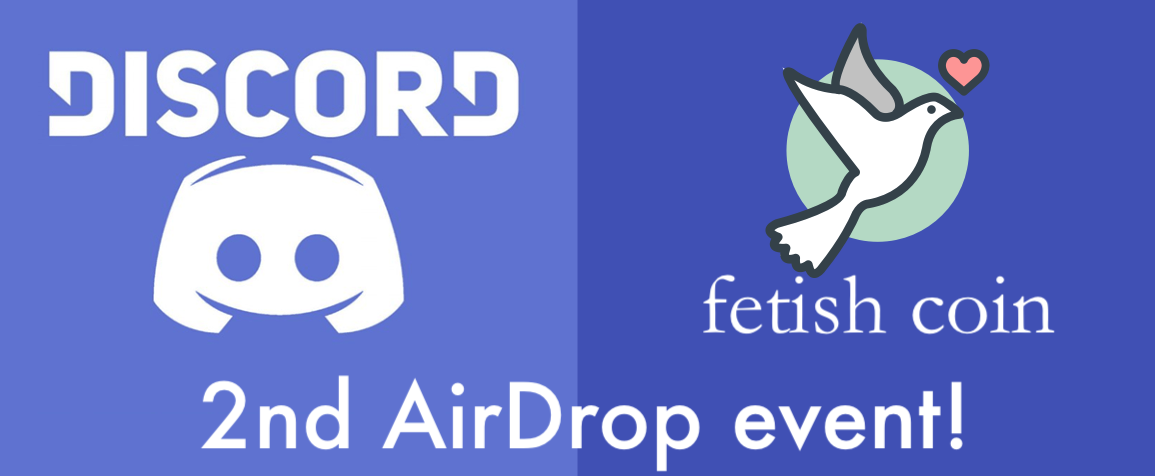
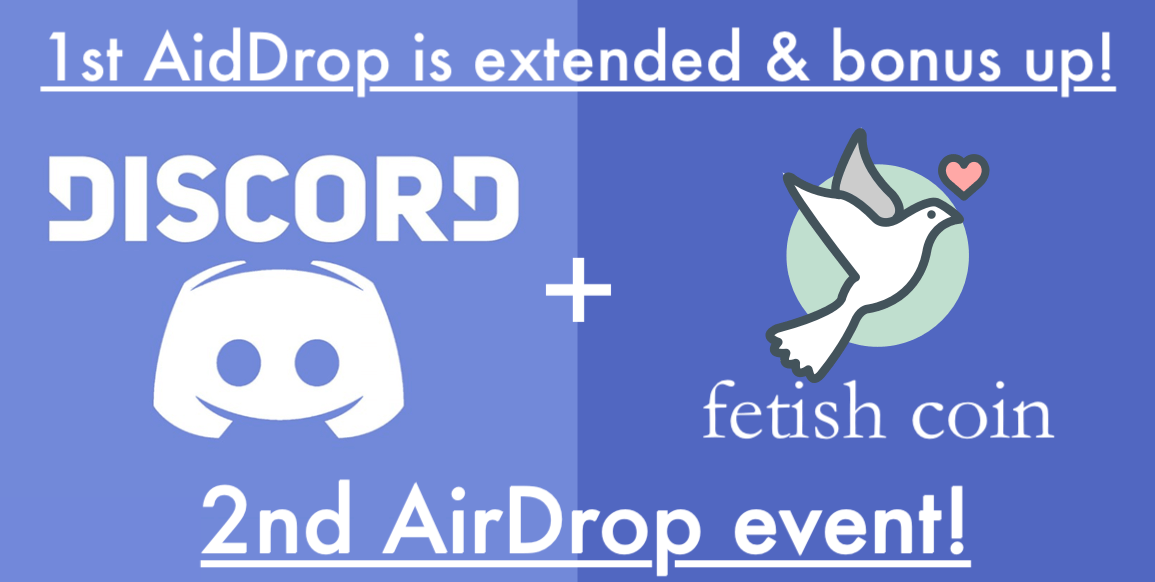
update events

diff --git a/events.html b/events.html
@@ -1,0 +1,165 @@
+<!DOCTYPE html>
+<html lang="ja">
+<head>
+<script src="//j.wovn.io/1" data-wovnio="key=rPrIfl" async></script>
+
+<!-- Global site tag (gtag.js) - Google Analytics -->
+<script async src="https://www.googletagmanager.com/gtag/js?id=UA-113280285-1"></script>
+<script>
+  window.dataLayer = window.dataLayer || [];
+  function gtag(){dataLayer.push(arguments);}
+  gtag('js', new Date());
+
+  gtag('config', 'UA-113280285-1');
+</script>
+
+<meta charset="UTF-8">
+
+<title>fetish coin project - Events</title>
+
+<meta http-equiv="X-UA-Compatible" content="IE=Edge">
+<!-- ogp -->
+<meta property="og:type" content="website" />
+<meta property="og:title" content="fetish coin project" />
+<meta property="og:image" content="/images/discord.png" />
+<meta property="og:image:alt" content="fetish_coin_project" />
+<meta property="og:url" content="https://fetishcoin.github.io/events" />
+<meta property="og:site_name" content="fetish coin project" />
+<!-- twitter card -->
+<meta name="twitter:image:src" content="https://fetishcoin.github.io/images/discord.png" />
+<meta name="twitter:card" content="summary_large_image" />
+<meta name="twitter:site" content="@homutsuki" />
+
+<!-- favicon -->
+<link rel="apple-touch-icon" sizes="57x57" href="favicon.ico/apple-icon-57x57.png">
+<link rel="apple-touch-icon" sizes="60x60" href="favicon.ico/apple-icon-60x60.png">
+<link rel="apple-touch-icon" sizes="72x72" href="favicon.ico/apple-icon-72x72.png">
+<link rel="apple-touch-icon" sizes="76x76" href="favicon.ico/apple-icon-76x76.png">
+<link rel="apple-touch-icon" sizes="114x114" href="favicon.ico/apple-icon-114x114.png">
+<link rel="apple-touch-icon" sizes="120x120" href="favicon.ico/apple-icon-120x120.png">
+<link rel="apple-touch-icon" sizes="144x144" href="favicon.ico/apple-icon-144x144.png">
+<link rel="apple-touch-icon" sizes="152x152" href="favicon.ico/apple-icon-152x152.png">
+<link rel="apple-touch-icon" sizes="180x180" href="favicon.ico/apple-icon-180x180.png">
+<link rel="icon" type="image/png" sizes="192x192"  href="favicon.ico/android-icon-192x192.png">
+<link rel="icon" type="image/png" sizes="32x32" href="favicon.ico/favicon-32x32.png">
+<link rel="icon" type="image/png" sizes="96x96" href="favicon.ico/favicon-96x96.png">
+<link rel="icon" type="image/png" sizes="16x16" href="favicon.ico/favicon-16x16.png">
+<link rel="manifest" href="favicon.ico/manifest.json">
+<meta name="msapplication-TileColor" content="#ffffff">
+<meta name="msapplication-TileImage" content="favicon.ico/ms-icon-144x144.png">
+<meta name="theme-color" content="#ffffff">
+
+<link rel="stylesheet" href="css/bootstrap.min.css">
+<link rel="stylesheet" href="css/animate.css">
+<link rel="stylesheet" href="css/magnific-popup.css">
+<link rel="stylesheet" href="css/font-awesome.min.css">
+
+<!-- Main css -->
+<link rel="stylesheet" href="css/style.css">
+
+</head>
+<body data-spy="scroll" data-target=".navbar-collapse" data-offset="50">
+
+<!-- EVENTS SECTION -->
+<section id="events">
+    <div class="container">
+        <div class="row">
+        <br>
+            <div class="col-md-11 col-sm-11">
+                <img src="images/discord.png" class="img-responsive main-image" alt="fetish coin event image">
+            </div>
+        </div>
+        <div class="row">
+            <div class="col-md-11 col-sm-11">
+                <h3><span class="text-danger">&#9829;</span> AirDrop第一弾好評につき、受付期間延長＋報酬アップいたします！ <br><span class="text-danger">&#9829;</span>また、4月9日よりAirDrop第二弾を開始します！　詳細は&darr;&darr;&darr;をチェック！<br> 　仮想通貨のことが分からない方でも歓迎していますので、ぜひご参加ください！</h3>
+                <p><a href="https://fetishcoin.github.io">　 fetish cointって？ という方は、公式サイトをご覧ください。</a></p>
+            </div>
+        </div>
+    </div>
+</section>
+
+<!-- DETAIL SECTION -->
+<section id="events-detail">
+    <div class="container">
+        <div class="row">
+            <div class="col-md-12 col-sm-12 col-xs-12">
+                <div class="wow fadeInUp section-title" data-wow-delay="0.2s">
+                <br><br>
+                    <h3>AirDrop（通貨の無料配布）詳細</h3>
+                </div>
+            </div>
+        </div>
+        <div class="row row-eq-height">
+            <div class="col-md-5 col-sm-5 col-xs-12">
+                <div class="wow fadeInUp" data-wow-delay="0.6s">
+                    <h3 class="underline">1st AirDrop: 4月30日まで延長！</h3>
+                    <ul>
+                        <li><a href="https://fetishcoin.github.io">公式サイト</a>にてETHアドレスを登録いただいた方に 5,000FET をプレゼント！</li>
+                        <li>ETHアドレス登録後、公開フェチアンケートに回答で 20,000FET をプレゼント！</li>
+                        <li>有効なフェチアンケート回答100件毎に、アンケート回答者全員に <span class="text-danger">2,000FET（2倍にUP！）</span>を追加で配布いたします！</li>
+                    </ul>
+                    <p>* 同一人物による登録・アンケート回答は1回のみカウントいたします。</p>
+                    <p>* アンケート回答に対する配布上限は、最大で50,000FET までです。その他の注意事項は公式サイトをご参照ください。</p>
+                    <p>* ETHアドレスがわからない方は、先にAirDrop第二弾にご参加下さい。Discordにて作成方法を解説しています！</p>
+                    <p><a href="https://docs.google.com/forms/d/e/1FAIpQLScX53md6kpOWpoCJPQwrY8mTWm4-8YptvMoz55_AxzvmPiPOA/viewanalytics?entry.1696159737=11&entry.485428648=22&entry.1716407648=33&entry.1720419816=44&entry.879531967=55&submit" target="_blank">現在のフェチアンケートの回答状況はこちら！</a></p>
+                    <p><a href="https://fetishcoin.github.io">fetish coin 公式サイトへ</a></p>
+                </div>
+            </div>
+            <div class="col-md-offset-1 col-md-5 col-sm-offset-1 col-sm-5 col-xs-12">
+                <div class="wow fadeInUp" data-wow-delay="0.6s">
+                    <h3 class="underline">2nd AirDrop: 4月30日まで！</h3>
+                    <p>以下の手順で参加して、最大 100,000 FETをGET！</p>
+                    <ol>
+                        <li>公式Twitterアカウントをフォロー</li>
+                        <a href="https://twitter.com/fetishcoin?ref_src=twsrc%5Etfw" class="twitter-follow-button" data-show-count="false">Follow @fetishcoin</a><script async src="https://platform.twitter.com/widgets.js" charset="utf-8"></script>
+                        <li>以下からツイート</li>
+                        <p class="followme"><a href="https://twitter.com/share" class="twitter-share-button" data-url="https://fetishcoin.github.io/events" data-text="fetish coinのAirDropに参加中！コミュニティで楽しくフェチトークして最大1,000円相当の報酬をGETしましょう。会話するほど報酬増加です！仮想通貨に詳しくない方も気軽に参加してみましょう。フェチ友達が見つかるかも！【4月30日まで】" data-size="large" data-hashtags="fetishcoin #FET #airdrop">Tweet</a> <span id="tweet_text">日本語でツイート</span></p>
+                        <p class="followme"><a href="https://twitter.com/share" class="twitter-share-button" data-url="https://fetishcoin.github.io" data-text="I joined AirDrop of fetish coin! 5,000 coins and more are being distributed for free. Let's check! [Until April 8th]" data-size="large" data-hashtags="fetishcoin #FET #airdrop #Crypto #cryptocurrency #FETAIRDROP">Tweet</a> <span id="tweet_text">Tweet in English</span></p>
+                        （ツイートできないけど参加したい、という方はDiscord内で理由をお知らせください）
+                        <li>Discordコミュニティに参加</li>
+                        <a href="https://fetishcoin.github.io"><img src="images/icons/discord_off.png" class="discord" width="50px" height="37px" alt="fetish coin discord"></a><br>招待コード: <a href="https://discord.gg/uyNeNSh" target="_blank">https://discord.gg/uyNeNSh</a>
+                        <li>コミュニティ内でフェチの役職申請を行う</li>
+                        <li>あとはコミュニティ内で楽しく会話するだけ！会話量に応じて報酬も増えていきます！</li>
+                    </ol>
+                    <p>* 本イベントは楽しく会話をしていただくためのものです。無意味な発言を繰り返しされる方などは、ルール違反と判断される可能性があります。</p>
+                    <p>* その他のルール詳細はDiscord内でご確認ください。</p>
+                </div>
+            </div>
+        </div>
+        <br>
+        <h3 class="underline">AirDropの実配布は、5/1以降より順次配布いたします。お待たせして申し訳ありませんが、配布までしばらくお待ち下さい。</h3>
+        <div class="row">
+            <div class="v-margin col-md-12 col-sm-12">
+                <div class="wow fadeInUp section-title" data-wow-delay="0.6s">
+                    <h3>ご支援について</h3>
+                    <p>fetish coin projectは本プロジェクトに共感してくださる皆様からのあたたかいご支援で成り立っています。<br>
+                    各種デザイン、法務監修、開発、広告、コミュニティの運営、ドキュメントの翻訳といった活動にご興味をお持ちでしたら、連絡用フォームやTwitter、Discordなどよりお気軽にご連絡ください。<a href="./donate.html" target="_blank">寄付による応援も受け付けています</a>ので、寄付者名の公開を希望される方はご連絡ください。</p>
+                </div>
+            </div>
+        </div>
+        <p><a href="https://fetishcoin.github.io">fetish coin project公式サイトに戻る</a></p>
+        <br><br>
+    </div>
+</section>
+
+<footer>Copyright &copy; 2018 "fetish coin project" All Rights Reserved. Icons provided by Vandelay Design, Omara Abderraouf.</footer>
+
+<!-- SCRIPTS -->
+<script src="js/jquery.js"></script>
+<script src="js/bootstrap.min.js"></script>
+<script src="js/smoothscroll.js"></script>
+<script src="js/jquery.magnific-popup.min.js"></script>
+<script src="js/magnific-popup-options.js"></script>
+<script type="text/javascript">
+$(function(){
+    $('a img').hover(function(){
+        $(this).attr('src', $(this).attr('src').replace('_off', '_on'));
+    }, function(){
+        if (!$(this).hasClass('currentPage')) {
+          $(this).attr('src', $(this).attr('src').replace('_on', '_off'));
+        }
+    });
+});
+</script>
+</body>
+</html>

diff --git a/thanks.html b/thanks.html
@@ -58,8 +58,8 @@
                 <h1>Thank you very much!</h1>
                 <p>AirDropの応募を受け付けました。</p>
                 <p>下記ボタンからツイートいただいた方から抽選で10名様に50,000FETをプレゼントいたしますので、ぜひご参加ください！</p>
-                <p class="followme"><a href="https://twitter.com/share" class="twitter-share-button" data-url="https://fetishcoin.github.io" data-text="fetish coinのAirDropに参加しました！フェチコイン5,000枚以上が無料配布中です。公開フェチアンケートへの回答で最大50,000FET貰えます！（皆さんの回答状況：https://goo.gl/MRZcK3 ）。要チェック！【4月8日まで】" data-size="large" data-hashtags="fetishcoin #FET #airdrop #仮想通貨 #FETAIRDROP">Tweet</a> <span id="tweet_text">日本語でツイート</span></p>
-                <p class="followme"><a href="https://twitter.com/share" class="twitter-share-button" data-url="https://fetishcoin.github.io" data-text="I joined AirDrop of fetish coin! 5,000 coins and more are being distributed for free. Let's check! [Until April 8th]" data-size="large" data-hashtags="fetishcoin #FET #airdrop #Crypto #cryptocurrency #FETAIRDROP">Tweet</a> <span id="tweet_text">Tweet in English</span></p>
+                <p class="followme"><a href="https://twitter.com/share" class="twitter-share-button" data-url="https://fetishcoin.github.io" data-text="fetish coinのAirDropに参加しました！フェチコイン5,000枚以上が無料配布中です。公開フェチアンケートへの回答で最大50,000FET貰えます！（皆さんの回答状況：https://goo.gl/MRZcK3 ）。要チェック！【4月8日まで】" data-size="large" data-hashtags="fetishcoin #FET #airdrop #仮想通貨 #FETAIRDROP">Tweet</a> <span class="tweet_text">日本語でツイート</span></p>
+                <p class="followme"><a href="https://twitter.com/share" class="twitter-share-button" data-url="https://fetishcoin.github.io" data-text="I joined AirDrop of fetish coin! 5,000 coins and more are being distributed for free. Let's check! [Until April 8th]" data-size="large" data-hashtags="fetishcoin #FET #airdrop #Crypto #cryptocurrency #FETAIRDROP">Tweet</a> <span class=tweet_text">Tweet in English</span></p>
                 <a href="https://twitter.com/intent/follow?screen_name=fetishcoin" target="_blank">　&#9829;公式Twitterアカウント</a> / <a href="https://discord.gg/uyNeNSh" target="_blank">&#9829;公式Discord</a>
                 </p>
                 <script>!function(d,s,id){var js,fjs=d.getElementsByTagName(s)[0],p=/^http:/.test(d.location)?'http':'https';if(!d.getElementById(id)){js=d.createElement(s);js.id=id;js.src=p+'://platform.twitter.com/widgets.js';fjs.parentNode.insertBefore(js,fjs);}}(document, 'script', 'twitter-wjs');</script>

diff --git a/css/style.css b/css/style.css
@@ -75,6 +75,14 @@ ul {
     letter-spacing: 0.2px;
 }
 
+ol {
+    color: #878787;
+    font-size: 20px;
+    font-weight: 300;
+    line-height: 25px;
+    letter-spacing: 0.2px;
+}
+
 strong, span {
   color: #878787;
   font-weight: normal;
@@ -589,6 +597,34 @@ a:hover, a:active, a:focus {
   margin-top: -20px;
 }
 
+
+
+/*---------------------------------------
+  Events-detail section
+-----------------------------------------*/
+
+#events-detail li {
+  margin-top: 10px;
+  margin-bottom: 15px;
+}
+
+.underline {
+  text-decoration: underline;
+}
+
+.main-image {
+ display: block;
+ margin-left: 10px;
+ margin-right: auto;
+ }
+
+.tweet_text {
+  font-size: 80% !important;
+ }
+
+ .discord {
+  margin-top: -15px;
+ }
 
 
 /*---------------------------------------
